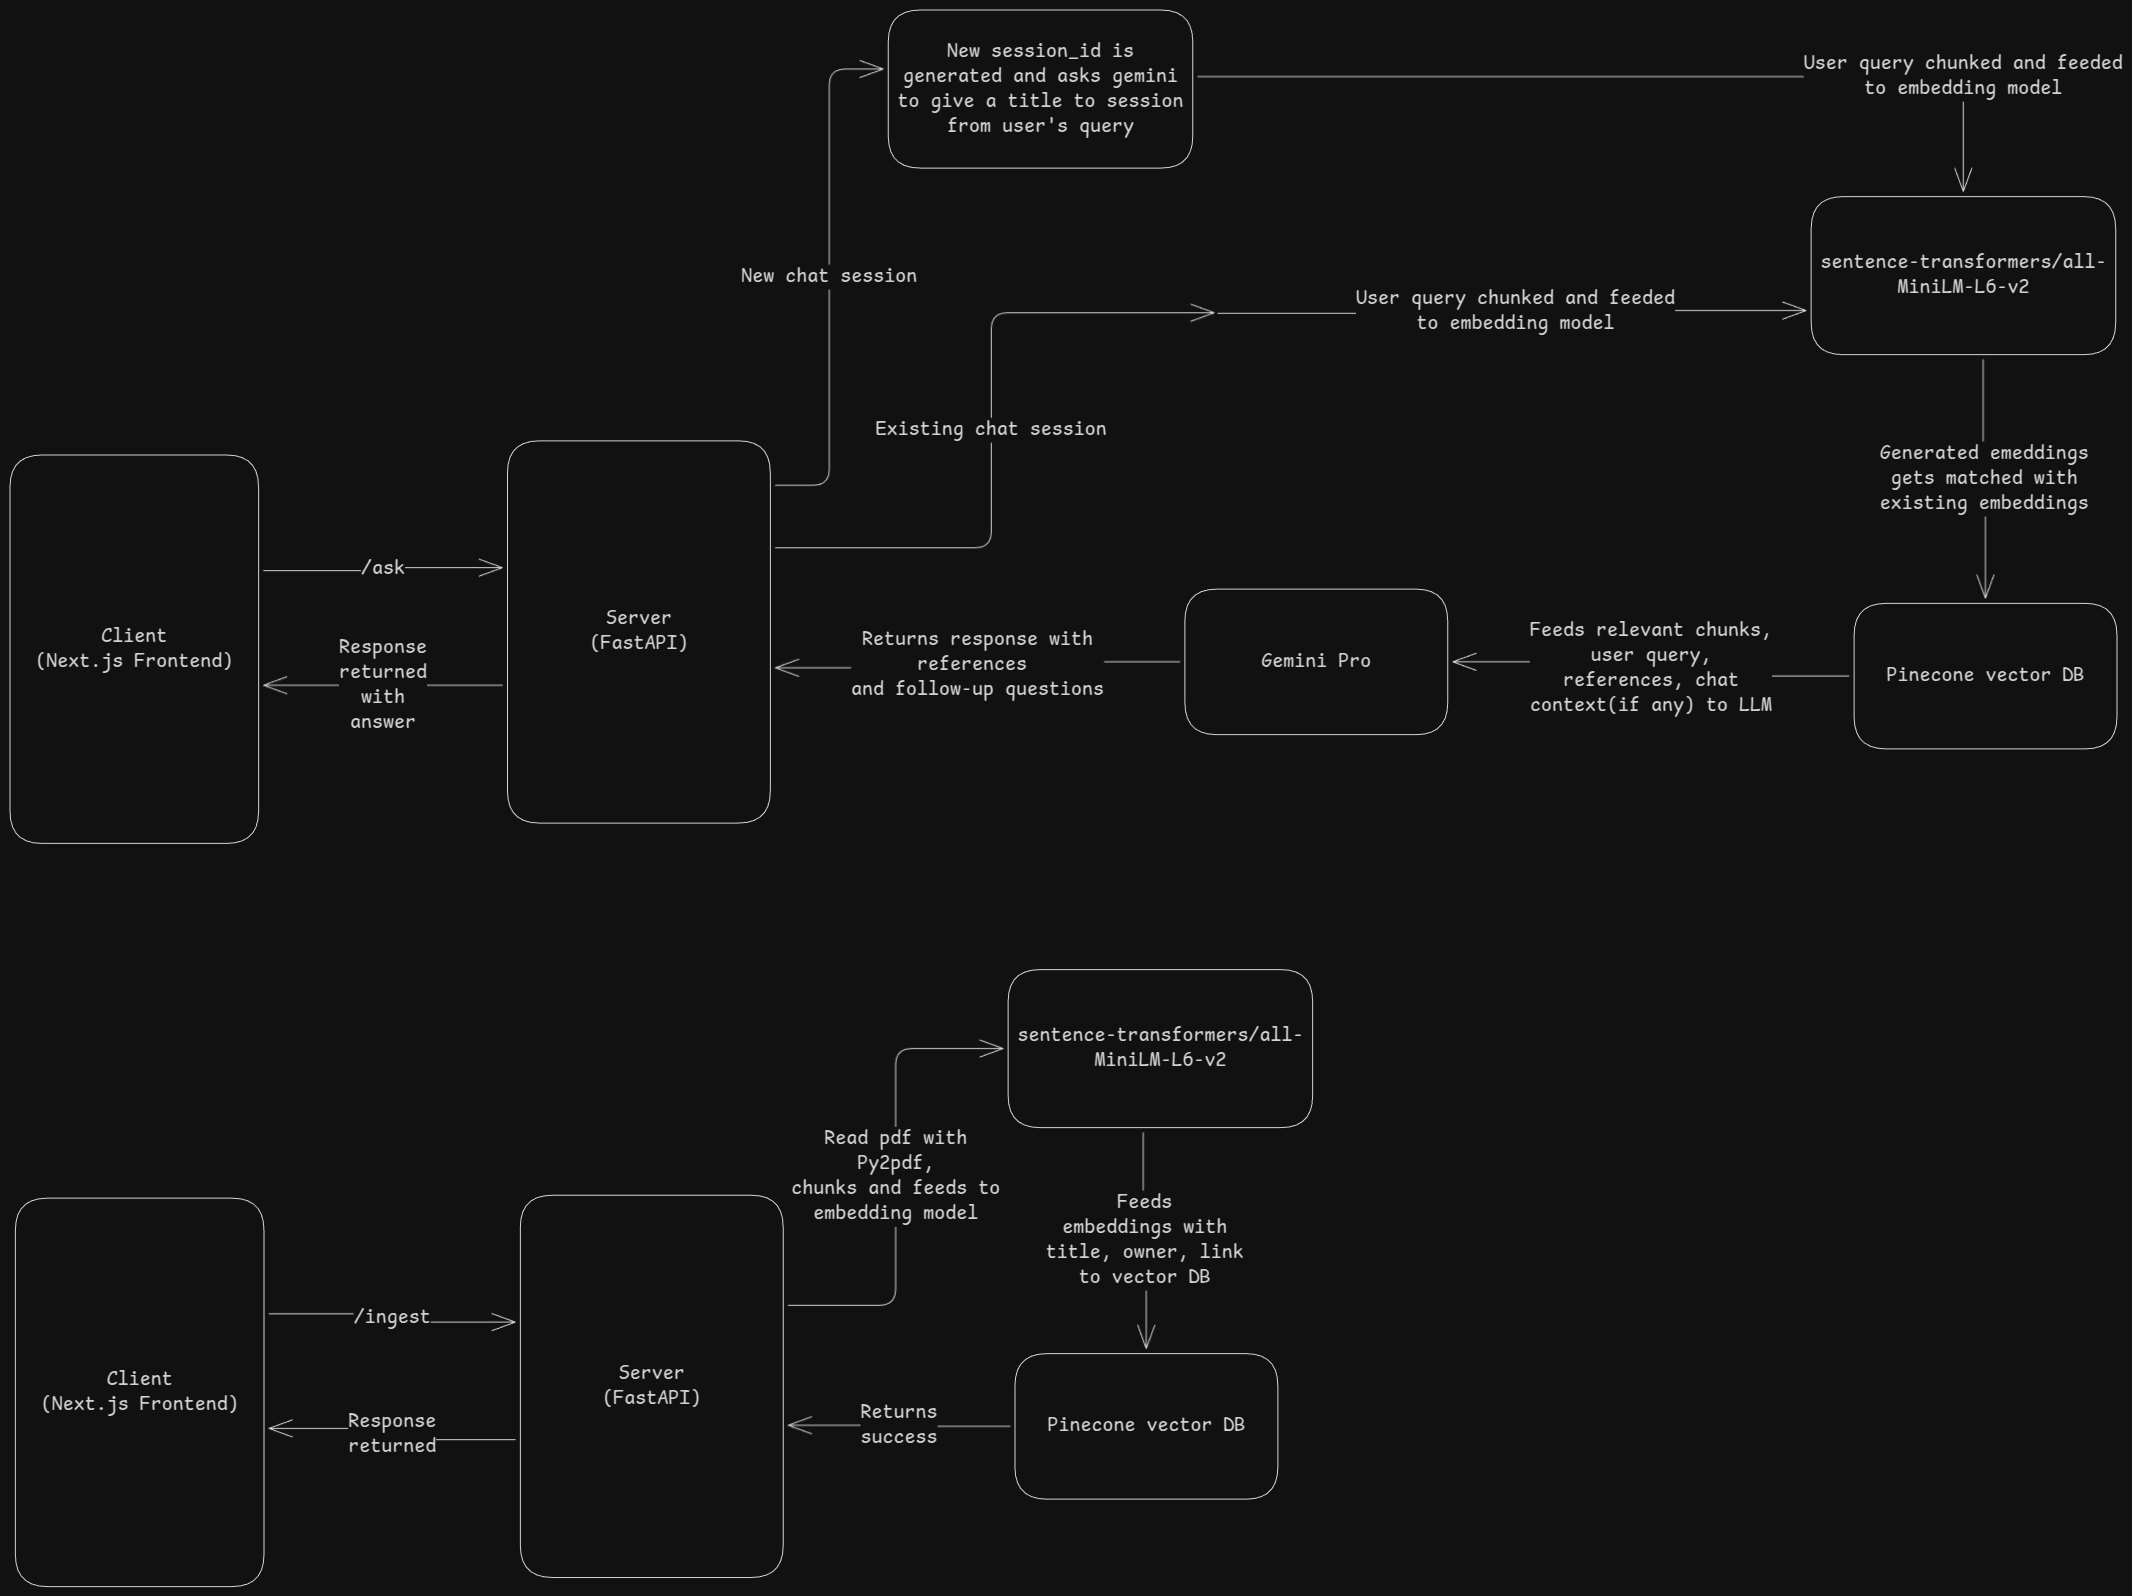
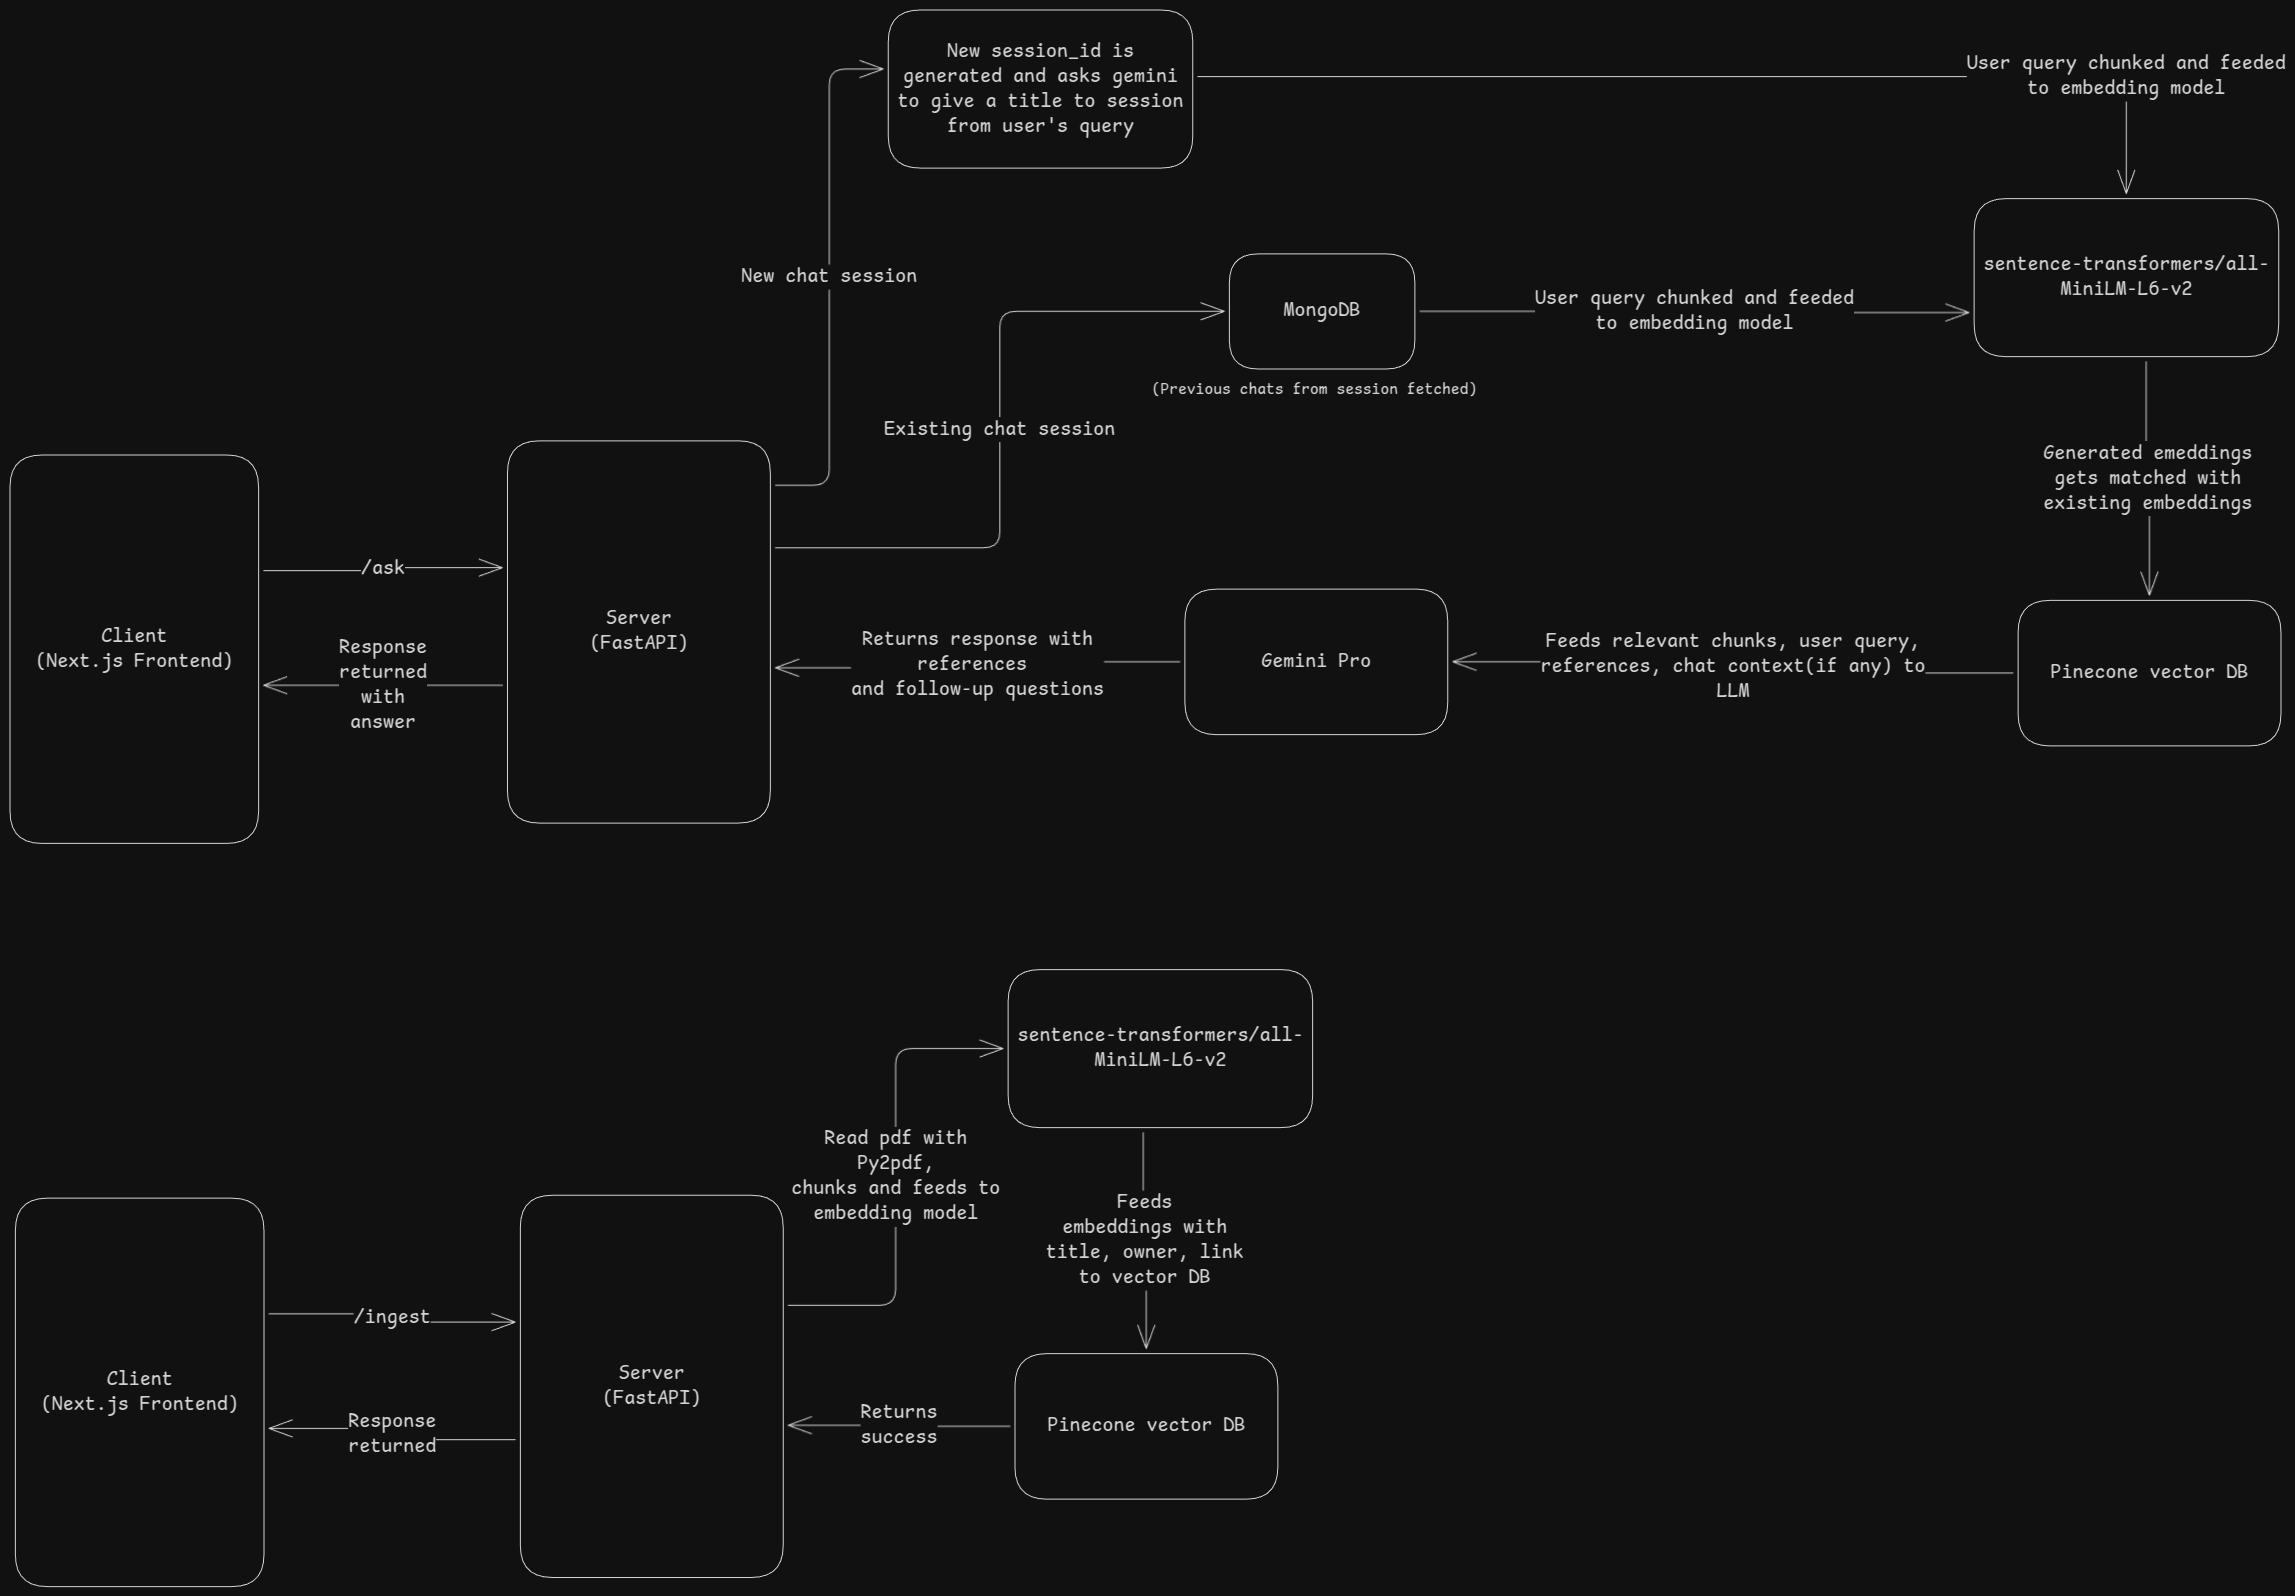
docs: updated architecture.png and design.md

diff --git a/docs/design.md b/docs/design.md
@@ -2,7 +2,7 @@
 
 ## Overview
 
-This document describes the system design choices made while building the solution within a strict time constraint of 3 days and on a low-end laptop. The goal was to create an efficient and scalable system using a combination of Next.js (frontend), FastAPI (backend), Gemini Pro (LLM), and Pinecone (vector database).
+This document describes the system design choices made while building the solution within a strict time constraint of 3 days and on a low-end laptop. The goal was to create an efficient and scalable system using a combination of Next.js (frontend), FastAPI (backend), Gemini Pro (LLM), MongoDB (database), and Pinecone (vector database).
 
 ## Key Constraints
 
@@ -16,6 +16,7 @@ This document describes the system design choices made while building the soluti
 - **Frontend**: Next.js (for fast and efficient UI rendering)
 - **Backend**: FastAPI (for lightweight and fast API development)
 - **LLM**: Gemini Pro (for generating responses based on retrieved embeddings)
+- **Database**: MongoDB (for storing chat history and metadata)
 - **Vector Database**: Pinecone (to store and retrieve vector embeddings efficiently)
 - **Embedding Model**: `sentence-transformers/all-MiniLM-L6-v2` (chosen for its balance between performance and resource efficiency)
 - **PDF Processing**: PyPDF2 (to extract text from PDFs in an efficient manner)
@@ -27,6 +28,8 @@ This document describes the system design choices made while building the soluti
 1. User submits a query via the Next.js frontend.
 2. FastAPI backend processes the request:
    - If it's a new chat session, a session ID is generated, and a title is assigned using Gemini Pro.
+   - The session metadata is stored in MongoDB.
+   - If it's an existing chat session, previous messages are retrieved from MongoDB.
    - The query is chunked and passed to `all-MiniLM-L6-v2` for embedding.
    - The embedding is compared with existing embeddings stored in Pinecone.
 3. Relevant context is retrieved and sent to Gemini Pro along with the original query.
@@ -45,7 +48,7 @@ This document describes the system design choices made while building the soluti
 - **Minimal Dependencies**: Used FastAPI instead of Flask to keep the backend lightweight.
 - **Efficient Embedding Model**: `all-MiniLM-L6-v2` was chosen over larger models to reduce computation requirements.
 - **Batch Processing**: Query and document chunks were processed in batches to avoid overloading memory.
-- **Local Development with Remote API Calls**: Pinecone and Gemini Pro were used remotely to reduce local computation overhead.
+- **Local Development with Remote API Calls**: Pinecone, MongoDB, and Gemini Pro were used remotely to reduce local computation overhead.
 - **Parallel Processing Where Possible**: Leveraged async capabilities in FastAPI for concurrent execution of API calls.
 
 ### 4. **Challenges Faced**
@@ -60,7 +63,8 @@ This document describes the system design choices made while building the soluti
 - **Indexing Optimization**: Explore alternative vector databases like FAISS for improved performance.
 - **Multi-threaded Processing**: Utilize threading/multiprocessing where applicable to speed up API calls.
 - **Frontend Enhancements**: Improve UI/UX to handle errors gracefully and provide better feedback to users.
+- **Session Management Enhancements**: Improve MongoDB queries and optimize session storage for better scalability.
 
 ## Conclusion
 
-Despite the constraints of time and hardware, the system was designed with a pragmatic approach. By leveraging lightweight frameworks, efficient embedding models, and remote processing, the system achieved its objectives within the given limitations. Future iterations can focus on optimizing performance and improving retrieval accuracy.
+Despite the constraints of time and hardware, the system was designed with a pragmatic approach. By leveraging lightweight frameworks, efficient embedding models, and remote processing, the system achieved its objectives within the given limitations. Future iterations can focus on optimizing performance, session management, and improving retrieval accuracy.
